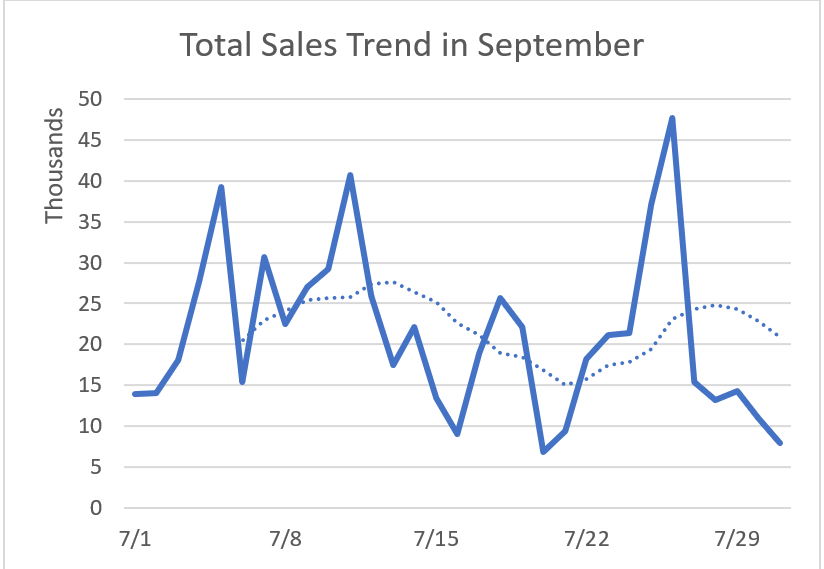
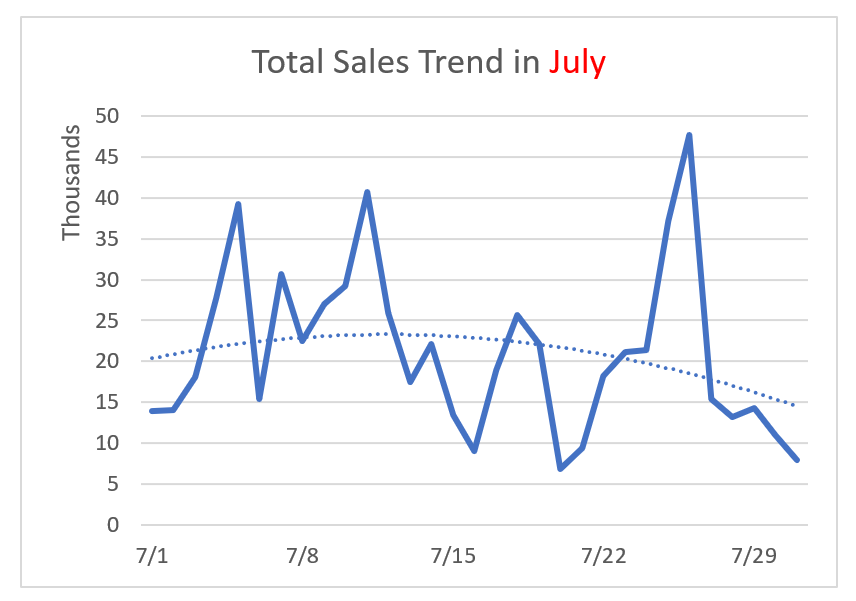
refine chart part

diff --git a/api/charts/walkthrough.md b/api/charts/walkthrough.md
@@ -24,8 +24,12 @@ Excel.run(function (context) {
     return context.sync();
 })
 ```
+Result
+![workthrough_1](image/workthrough_1.PNG?raw=true)
 
-#### Delete a series
+#### Customize a series
+
+In this example, we customized the new added series's marker style to circle, background color to <font color=red>red</font> and make all datalabels belong to this series visible. 
 
 ```js
 Excel.run(function (context) {
@@ -40,7 +44,10 @@ Excel.run(function (context) {
 })
 ```
 
-#### Customize a series
+Result
+![workthrough_2](image/workthrough_2.PNG?raw=true)
+
+#### Delete a series
 
 ```js
 Excel.run(function (context) {
@@ -53,34 +60,35 @@ Excel.run(function (context) {
 })
 ```
 
+Result
+![workthrough_3](image/workthrough_3.PNG?raw=true)
+
 ### Add/delete/customize trendline
 
 #### Add a trendline
+
+Before add a trendline, we need add a series to chart follow the example [Add a series]() above
+
+-
+
 ```js
 Excel.run(function (context) {
     let sheet = context.workbook.worksheets.getItem("Walkthrough");
     let chart = sheet.charts.getItemAt(0);
     let series = chart.series.getItemAt(0);
-    let trendline = series.trendlines.add(Excel.TrendlineType.linear);
+    let trendline = series.trendlines.add(Excel.TrendlineType.polynomial);
 
     return context.sync();
 })
 ```
 
-#### Delete a trendline
-```js
-Excel.run(function (context) {
-    let sheet = context.workbook.worksheets.getItem("Walkthrough");
-    let chart = sheet.charts.getItemAt(0);
-    let series = chart.series.getItemAt(0);
-    let trendline = series.trendlines.getItem(0);
-    trendline.delete();
-
-    return context.sync();
-})
-```
+Result
+![workthrough_4](image/workthrough_4.PNG?raw=true)
 
 #### Customize a trendline
+
+In this example, we customized the new added trendline to display the euqation and make the line color to <font color=green>green</font> and style to dash-dot-dot.
+
 ```js
 Excel.run(function (context) {
     let sheet = context.workbook.worksheets.getItem("Walkthrough");
@@ -95,9 +103,32 @@ Excel.run(function (context) {
 })
 ```
 
+Result
+![workthrough_5](image/workthrough_5.PNG?raw=true)
+
+#### Delete a trendline
+
+```js
+Excel.run(function (context) {
+    let sheet = context.workbook.worksheets.getItem("Walkthrough");
+    let chart = sheet.charts.getItemAt(0);
+    let series = chart.series.getItemAt(0);
+    let trendline = series.trendlines.getItem(0);
+    trendline.delete();
+
+    return context.sync();
+})
+```
+
+Result
+![workthrough_1](image/workthrough_1.PNG?raw=true)
+
 ### Customize chart title and datalabel
 
 #### Set font format of part of chart title
+
+In this example, we customized the chart title to <b>This is a chart</b> and highlight the <font color=red>chart</font>.
+
 ```js
 Excel.run(function (context) {
     let sheet = context.workbook.worksheets.getItem("Walkthrough");
@@ -114,24 +145,40 @@ Excel.run(function (context) {
 })
 ```
 
-#### Customize datalabel
+Result
+![workthrough_6](image/workthrough_6.PNG?raw=true)
+
+#### Customize datalabel & point
+
+In this example, we first make the 6th datalabel visible and then customized it to show legend key and category name and put its position to the point's left. And we customized corresponding point's marker size to 8, background color to <font color=orange>orange</font> and the marker style to diamond. 
+
 ```js
 Excel.run(function (context) {
     let sheet = context.workbook.worksheets.getItem("Walkthrough");
     let chart = sheet.charts.getItemAt(0);
     let series = chart.series.getItemAt(0);
-    let point = series.points.getItemAt(5);
+    let point = series.points.getItemAt(5); // 6th datalabel
     point.hasDataLabel = true;
+    point.markerSize = 8;
+    point.markerBackgroundColor = 'orange';
+    point.markerStyle = Excel.ChartMarkerStyle.diamond;
     let datalabel = point.dataLabel;
-    datalabel.position = Excel.ChartDataLabelPosition.left;
-    datalabel.showLegendKey = true;
     datalabel.showCategoryName = true;
+    datalabel.showValue = true;
+    datalabel.showLegendKey = true;
+    datalabel.position = Excel.ChartDataLabelPosition.left;
 
     return context.sync();
 })
 ```
 
+Result
+![workthrough_7](image/workthrough_7.PNG?raw=true)
+
 ### Customize chart axis
+
+In this example, we customized the value axis display unit to based on 20 and the category axis's tick label spacing to 2.
+
 ```js
 Excel.run(function (context) {
     let sheet = context.workbook.worksheets.getItem("Walkthrough");
@@ -144,6 +191,8 @@ Excel.run(function (context) {
     return context.sync();
 })
 ```
+Result
+![workthrough_8](image/workthrough_8.PNG?raw=true)
 
 
 

diff --git a/api/charts/exercise.md b/api/charts/exercise.md
@@ -5,17 +5,30 @@ _[Home page](../index.md)_
 
 # Exercise
 
-Here is a table about the Sales of Lemon and Orange in July as below ([SampleDoc](sampleDoc/ExcelChartAPISample.xlsx)).
+Here is a table about the Sales of Lemon and Orange in July as below ([SampleDoc](sampleDoc/ExcelChartAPISample.xlsx)) and open *Exercise* tab.
 
 ![Data](image/data.PNG?raw=true)
 
 #### Step 1
-Using Script Lab, create a script for Excel that will show total sales in July and add a trendline show as below 
+Using Script Lab, create a script that will show total sales(*column H*) in July and add a trendline(*Excel.TrendlineType.polynomial*) show as below
 
 ![Step 1 Result](image/Step_1_Result.PNG?raw=true)
 
+Some usefull code snippets for exercise
+
+- Get Exercise sheet in sample doc
+
+```js
+let sheet = context.workbook.worksheets.getItem("Exercise");
+```
+- Another way to set display unit for value axis
+```js
+let valueAxis = chart.axes.valueAxis;
+valueAxis.displayUnit = Excel.ChartAxisDisplayUnit.thousands;
+```
+
 #### Step 2
-Highlight the highest sales in the series as below
+Highlight the highest sales(the 25th data point) in the series as below
 ![Step 2 Result](image/Step_2_Result.PNG?raw=true)
 
 

diff --git a/api/survey.md b/api/survey.md
@@ -8,6 +8,7 @@ Please provide your feedback by taking this short survey:
 
 Survey 
 
+- [Chart](https://forms.office.com/Pages/DesignPage.aspx#FormId=v4j5cvGGr0GRqy180BHbR7Xv6Ou7HttHjljixZtaV1hUQzE0WUtCWFYzSFBVMjVVUTBIT0s2WVY4Ty4u)
 - [Events](http://aka.ms/mvpjsapisurvey)
 - [Data Validation](https://forms.office.com/Pages/ResponsePage.aspx?id=v4j5cvGGr0GRqy180BHbRxxP2zxSbypLp5NxVTGn_ONURTNOVjVLM0pMNVE5NDc0NlAxUDM4VU1IQi4u)
 - [Custom Functions]()
